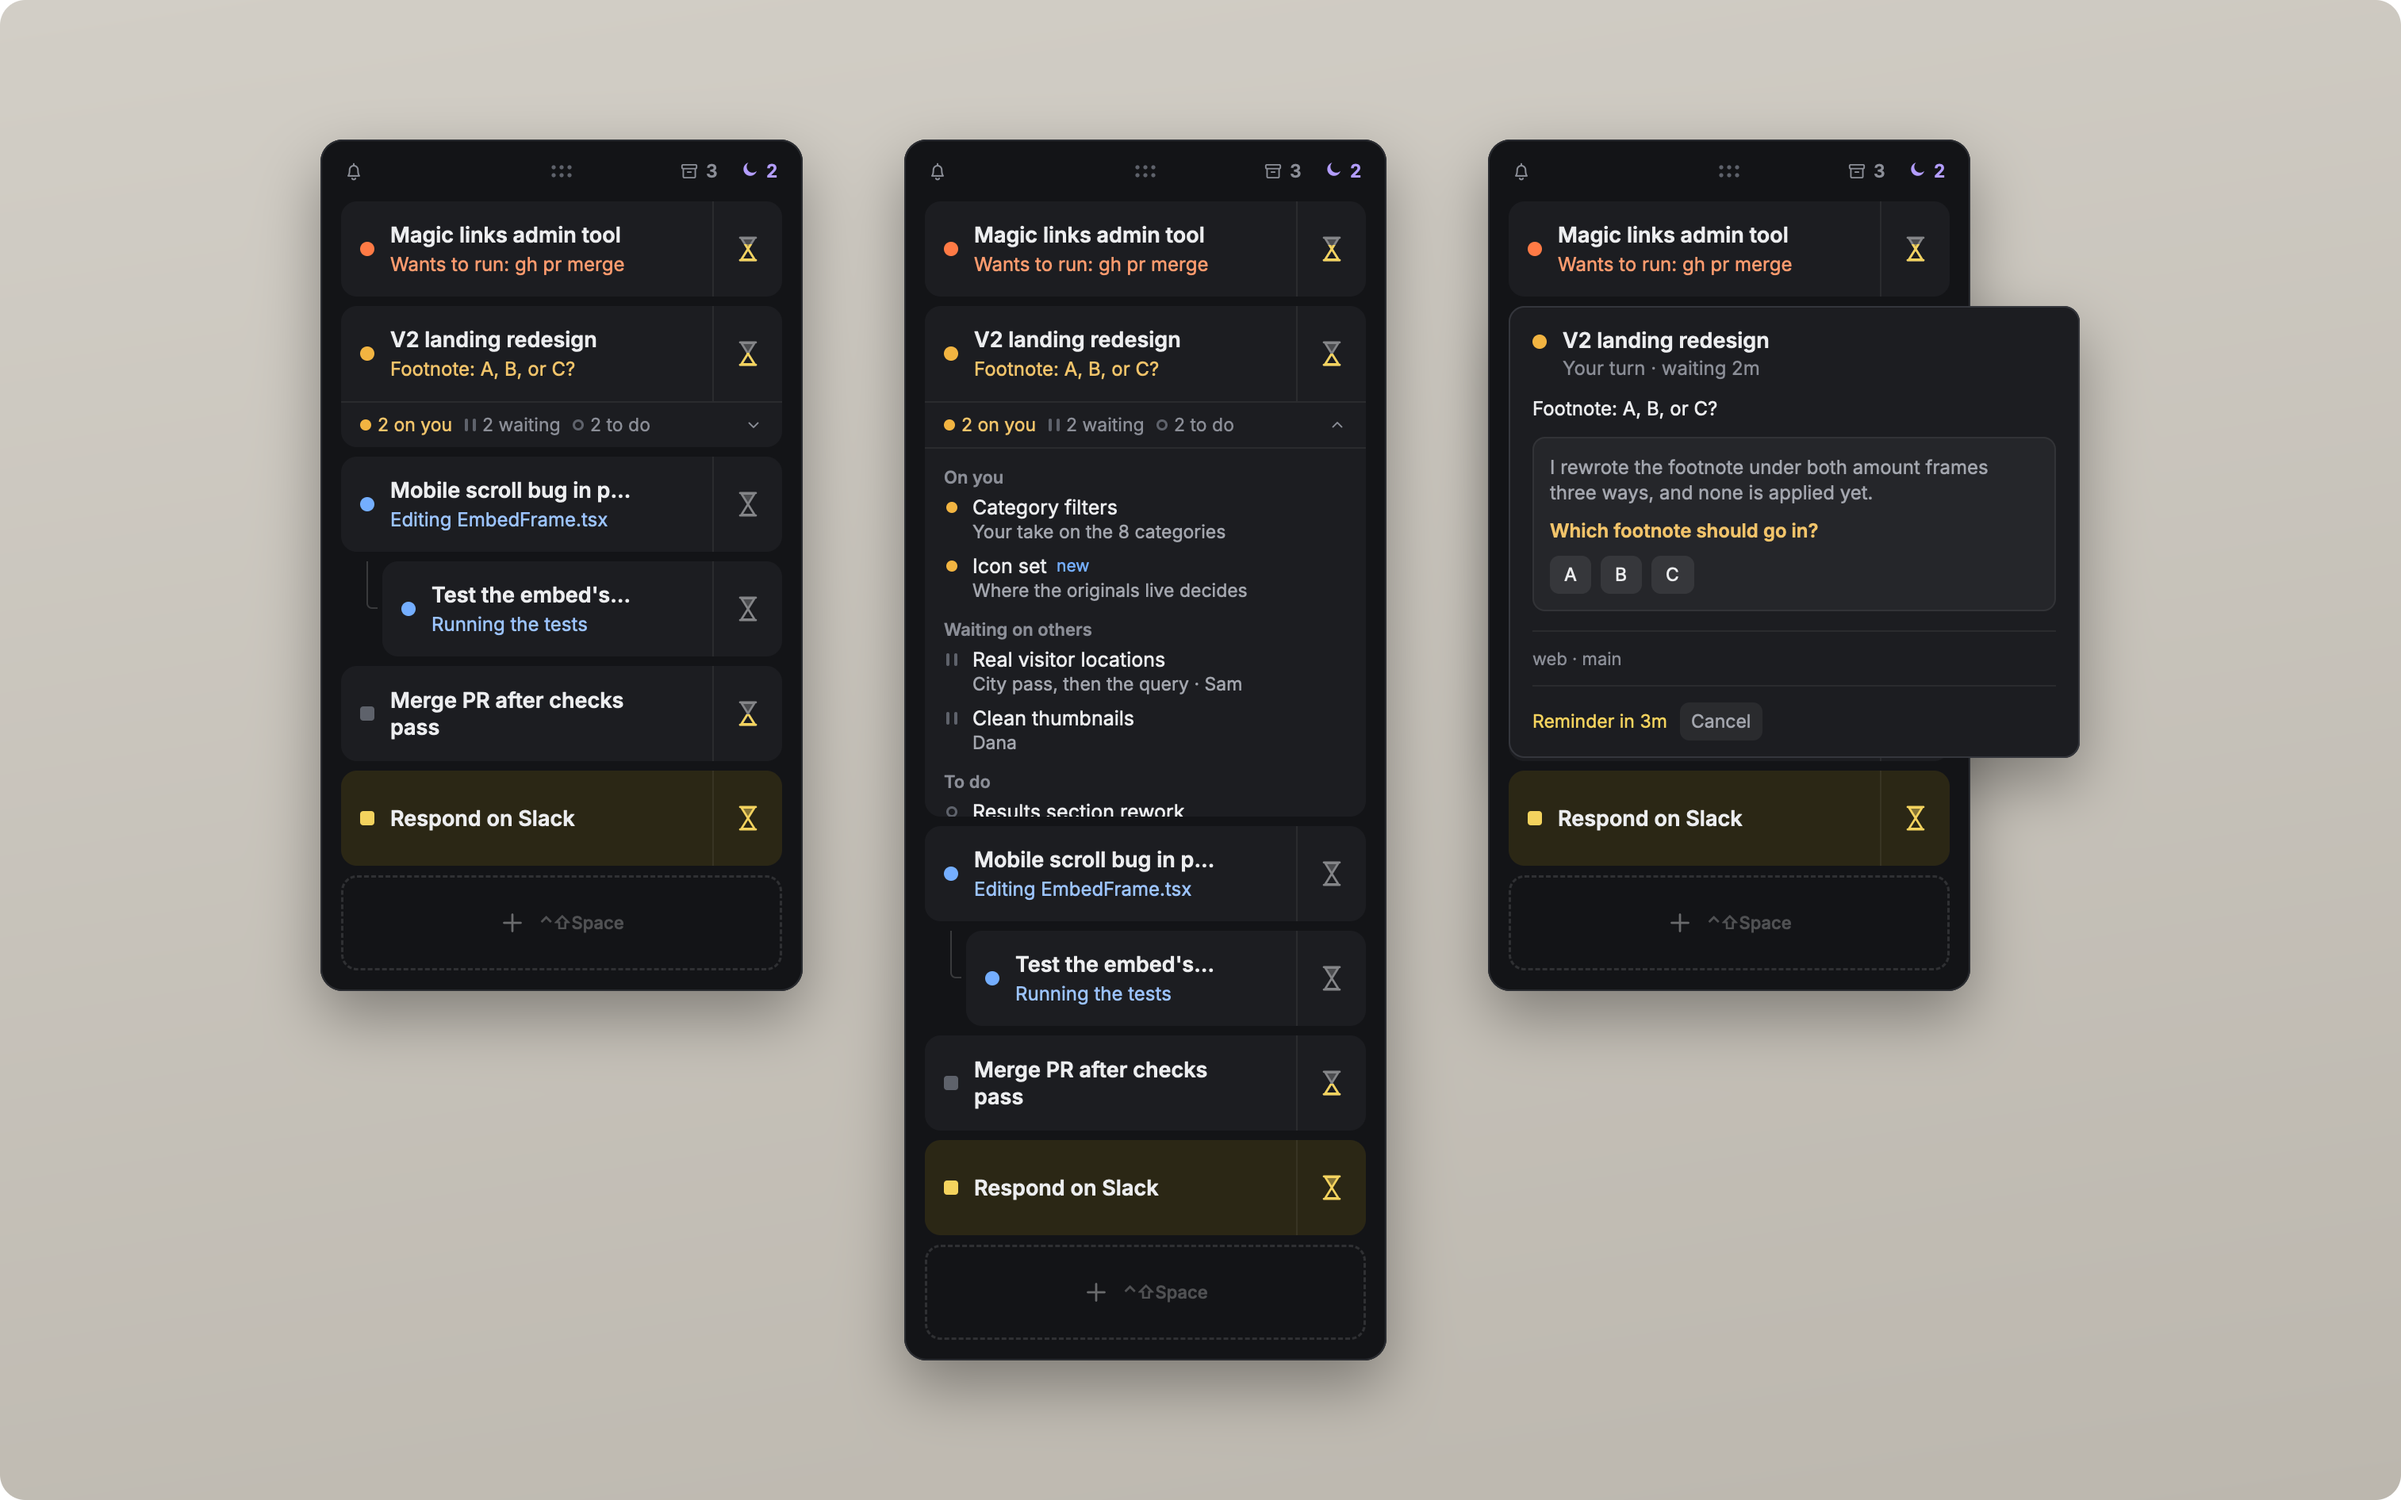
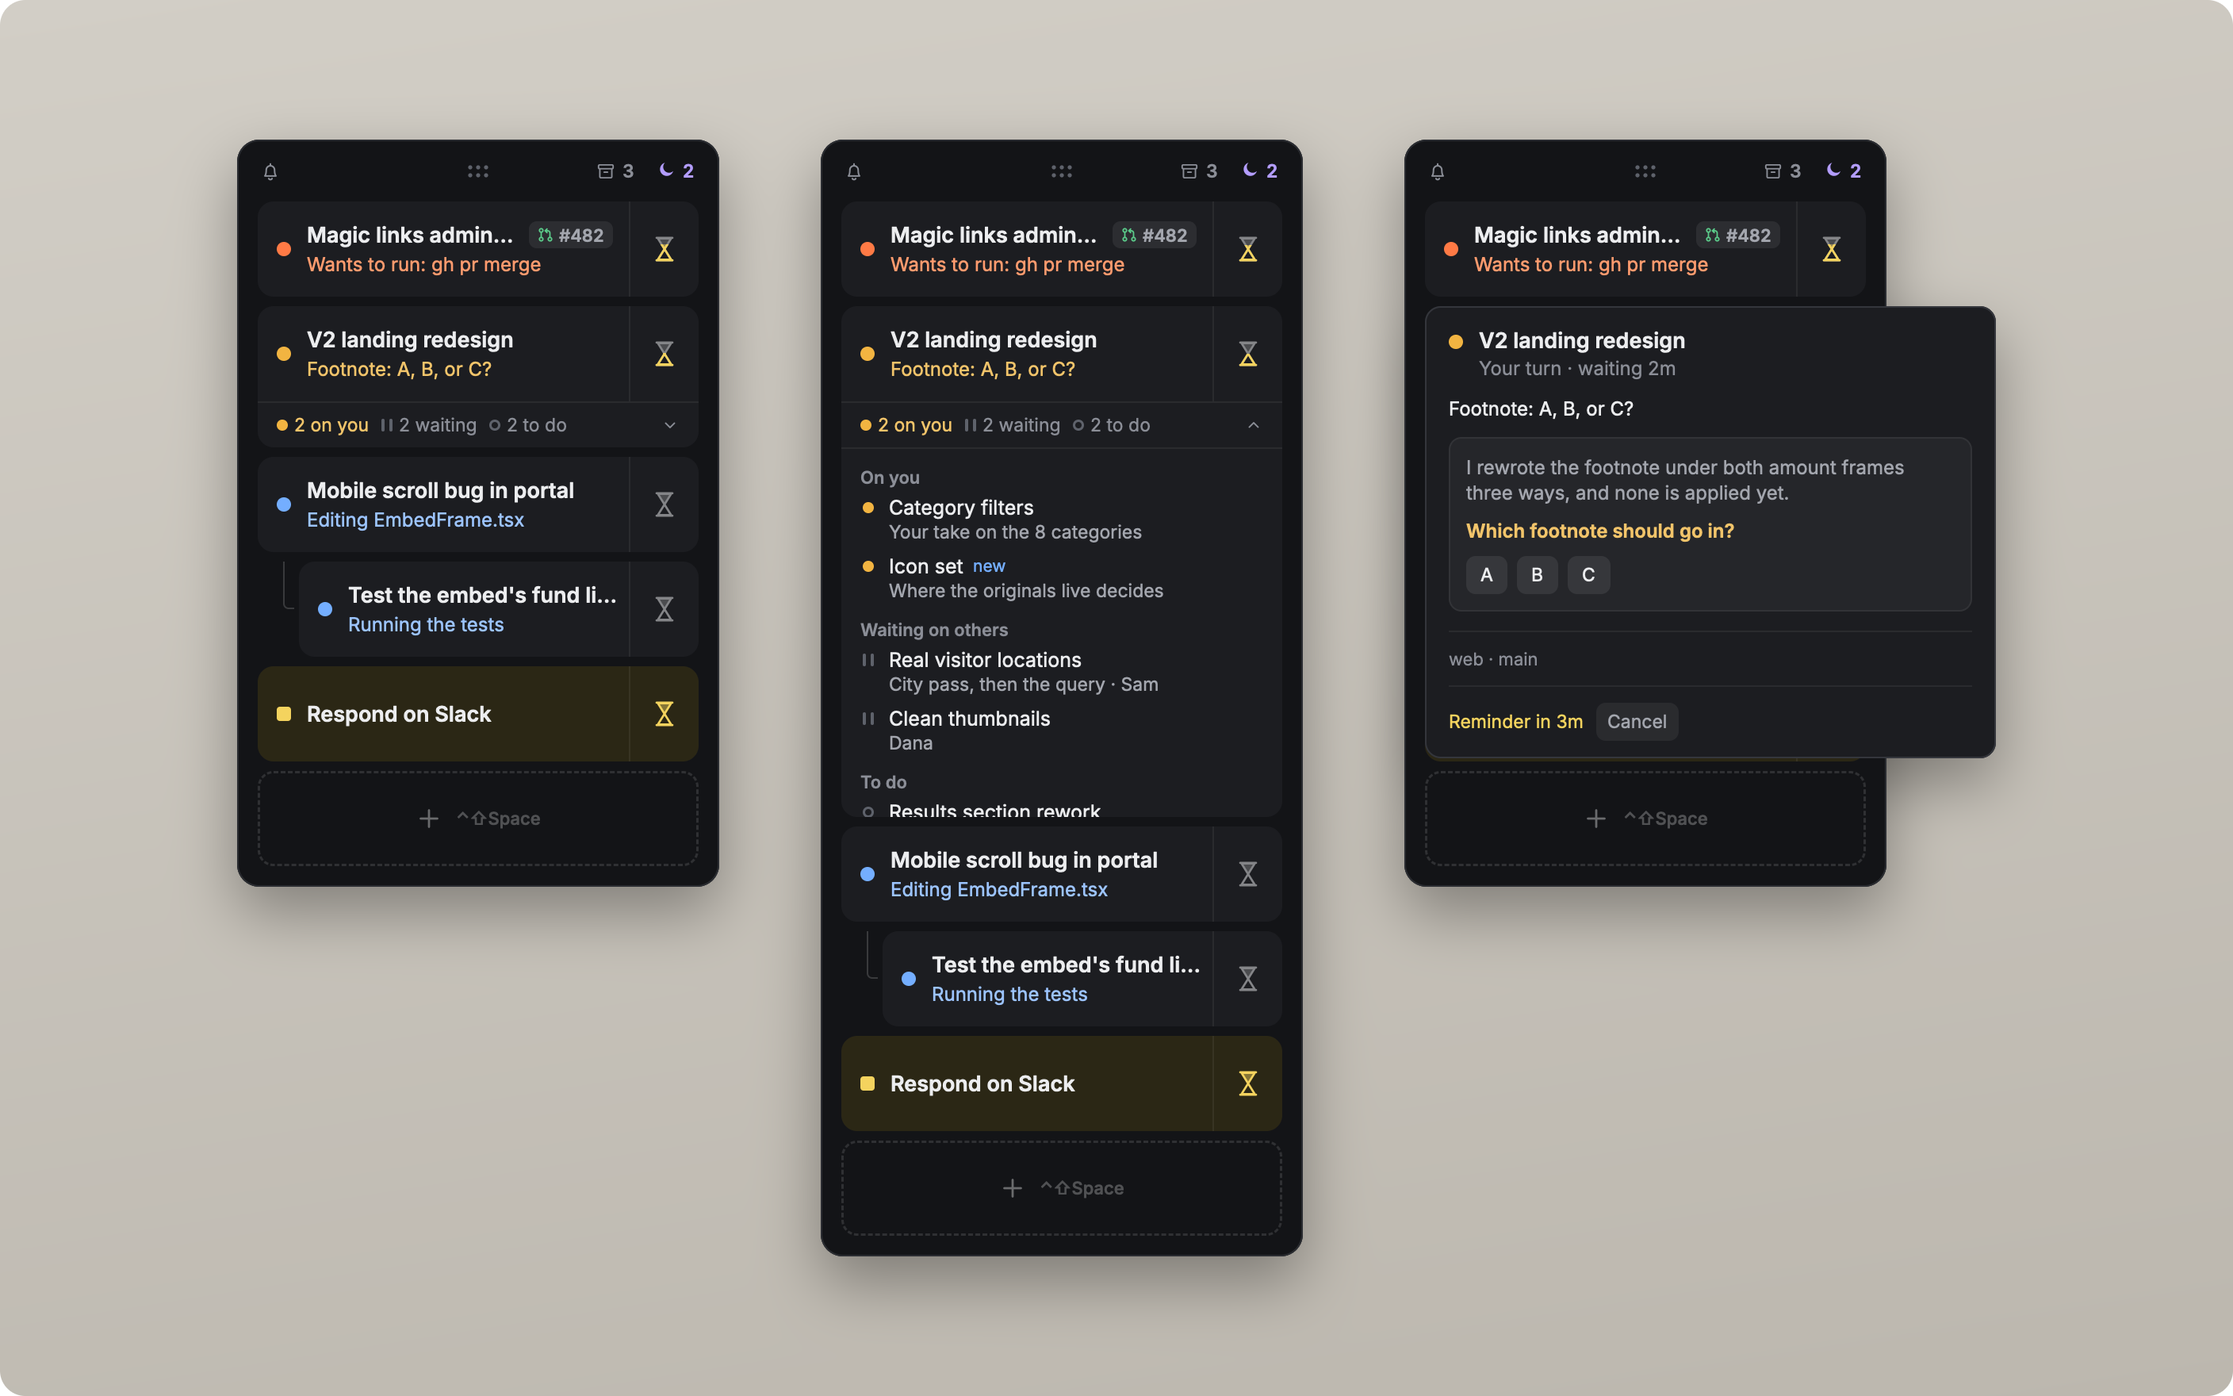
docs: show a pull request chip in the README's picture
The showcase gives the session that asks to merge its pull request the
pull request's chip, with its checks passed, and drops the reminder to
merge a pull request, which the chip makes unneeded. The README's
picture is a new capture of it, without the tiles' ×.

Changed region(s): [[0.0938, 0.0938, 0.9062, 0.9062]]

diff --git a/src/plates/src/showcase.rs b/src/plates/src/showcase.rs
@@ -2,10 +2,12 @@
 //! `plates showcase` opens it, writing none of Plates' data files. Its tiles come from a few
 //! weeks of real Claude Code sessions with the names of projects, clients, and people taken out,
 //! so it shows at once the states record/areas/rack/02-tiles.md describes: a session asking for
-//! approval, one at your turn with a question and a task list, one working with the app's plan for
-//! its request and a sub-session under it, your own tile whose timer runs beside one whose reminder is due, and two snoozed tiles
-//! behind the moon. It leaves out a finished turn you haven't read, so the rack stays short enough
-//! to read at a glance (user, 2026-11-20).
+//! approval to merge its pull request, whose chip shows the checks passed, one at your turn with a
+//! question and a task list, one working with the app's plan for its request and a sub-session
+//! under it, your own tile whose reminder is due, and two snoozed tiles behind the moon. Only the
+//! session about a pull request shows one, since the others' work is under way (user, 2026-11-27).
+//! It leaves out a finished turn you haven't read, so the rack stays short enough to read at a
+//! glance (user, 2026-11-20).
 
 use std::{
     path::PathBuf,
@@ -15,6 +17,7 @@ use std::{
 use plates_core::{
     Rack, SessionEvent, TileId, Timer, Tool, WrapUp,
     desktop::AppSession,
+    pulls::{Checks, Pull, PullLink, PullState, Review},
     session::{PlanChange, Step, StepStatus},
     tasks::{Change, State, TaskList},
 };
@@ -82,6 +85,45 @@ fn made_up(now: SystemTime, tasks: &[(&str, State, &str, &str, u64)]) -> TaskLis
     list
 }
 
+/// The made-up pull requests the showcase's sessions link, oldest first, each with what GitHub
+/// says about it, by the session's ID.
+pub fn pulls() -> Vec<(&'static str, PullLink, Pull)> {
+    let pull = |session: &'static str,
+                repo: &str,
+                number: u64,
+                title: &str,
+                checks: Checks,
+                draft: bool,
+                review: Review| {
+        let link = PullLink {
+            url: format!("https://github.com/{repo}/pull/{number}"),
+            repo: repo.to_string(),
+            number,
+            open: true,
+            dismissed: false,
+        };
+        let pull = Pull {
+            number,
+            title: title.to_string(),
+            state: PullState::Open,
+            draft,
+            checks,
+            review,
+            conflicts: false,
+        };
+        (session, link, pull)
+    };
+    vec![pull(
+        "admin",
+        "acme/admin",
+        482,
+        "Send a user a fresh magic link from the admin app",
+        Checks::Passed,
+        false,
+        Review::Approved,
+    )]
+}
+
 /// Builds the made-up rack as it stands at `now`, and the tile whose hover card the showcase's
 /// picture shows.
 pub fn rack(now: SystemTime) -> (Rack, TileId) {
@@ -104,7 +146,11 @@ pub fn rack(now: SystemTime) -> (Rack, TileId) {
                 focused_at: None,
                 parent: parent.map(|p| format!("local_{p}")),
                 cli_id: Some(id.to_string()),
-                pulls: Vec::new(),
+                pulls: pulls()
+                    .into_iter()
+                    .filter(|(session, _, _)| *session == id)
+                    .map(|(_, link, _)| link)
+                    .collect(),
                 archived: false,
             },
         );
@@ -298,10 +344,7 @@ pub fn rack(now: SystemTime) -> (Rack, TileId) {
     let hub = rack.add_own("Order a USB-C hub", ago(300));
     rack.remove(hub, ago(240));
 
-    // Your own tiles wait on something else: one for a PR's checks, with its timer running, and
-    // one for a reply on Slack, whose reminder has come due.
-    let checks = rack.add_own("Merge PR after checks pass", ago(12));
-    rack.start_timer(checks, 15, ago(5));
+    // Your own tile waits on a reply on Slack, and its reminder has come due.
     let slack = rack.add_own("Respond on Slack", ago(40));
     rack.start_timer(slack, 30, ago(31));
     for title in ["Fix the analytics MCP token", "Customer support docs plan"] {

diff --git a/src/plates/src/rack_view.rs b/src/plates/src/rack_view.rs
@@ -15,7 +15,7 @@ use plates_core::{
     Rack, Removed, SessionEvent, SessionState, Tile, TileId, desktop,
     hooks::{self, HookMessage},
     install::Connection,
-    pulls::{self, Pull},
+    pulls::{self, Pull, PullLink},
     store,
     tasks::{self, TaskList},
     timer::{DEFAULT_MINUTES, MENU_HOURS, MENU_MINUTES, Timer},
@@ -1597,6 +1597,20 @@ impl RackView {
             return;
         }
         self.show_card(id, folder, &spot, cx);
+    }
+
+    /// Gives the showcase's pull requests what GitHub would say about them, since the showcase
+    /// asks GitHub nothing.
+    pub(crate) fn showcase_pulls(&mut self, pulls: impl IntoIterator<Item = (PullLink, Pull)>) {
+        for (link, pull) in pulls {
+            self.pulls.insert(
+                link.url,
+                SeenPull {
+                    pull,
+                    changed: None,
+                },
+            );
+        }
     }
 
     /// Gives the showcase's tile `id` the made-up task list, open if `open`, as if you last opened

diff --git a/src/plates/src/app.rs b/src/plates/src/app.rs
@@ -271,6 +271,14 @@ pub fn showcase(capture: Option<PathBuf>, tasks: bool) {
             true,
             cx,
         );
+        view.update(cx, |this, cx| {
+            this.showcase_pulls(
+                showcase::pulls()
+                    .into_iter()
+                    .map(|(_, link, pull)| (link, pull)),
+            );
+            cx.notify();
+        });
         if tasks || capture.is_some() {
             let open = capture.is_none();
             view.update(cx, |this, cx| this.showcase_tasks(card_tile, open, cx));

diff --git a/README.md b/README.md
@@ -2,7 +2,7 @@
 
 An always-on-top rack of your Claude Code sessions, and anything else you're juggling.
 
-![Three views of the rack: as it sits, with a session's task list open, and with a session's hover card open](.github/readme/rack.png)
+![Three views of the rack, where a session asking to merge its pull request shows the pull request's number in a chip: as it sits, with a session's task list open, and with a session's hover card open](.github/readme/rack.png)
 
 ## What it does
 
